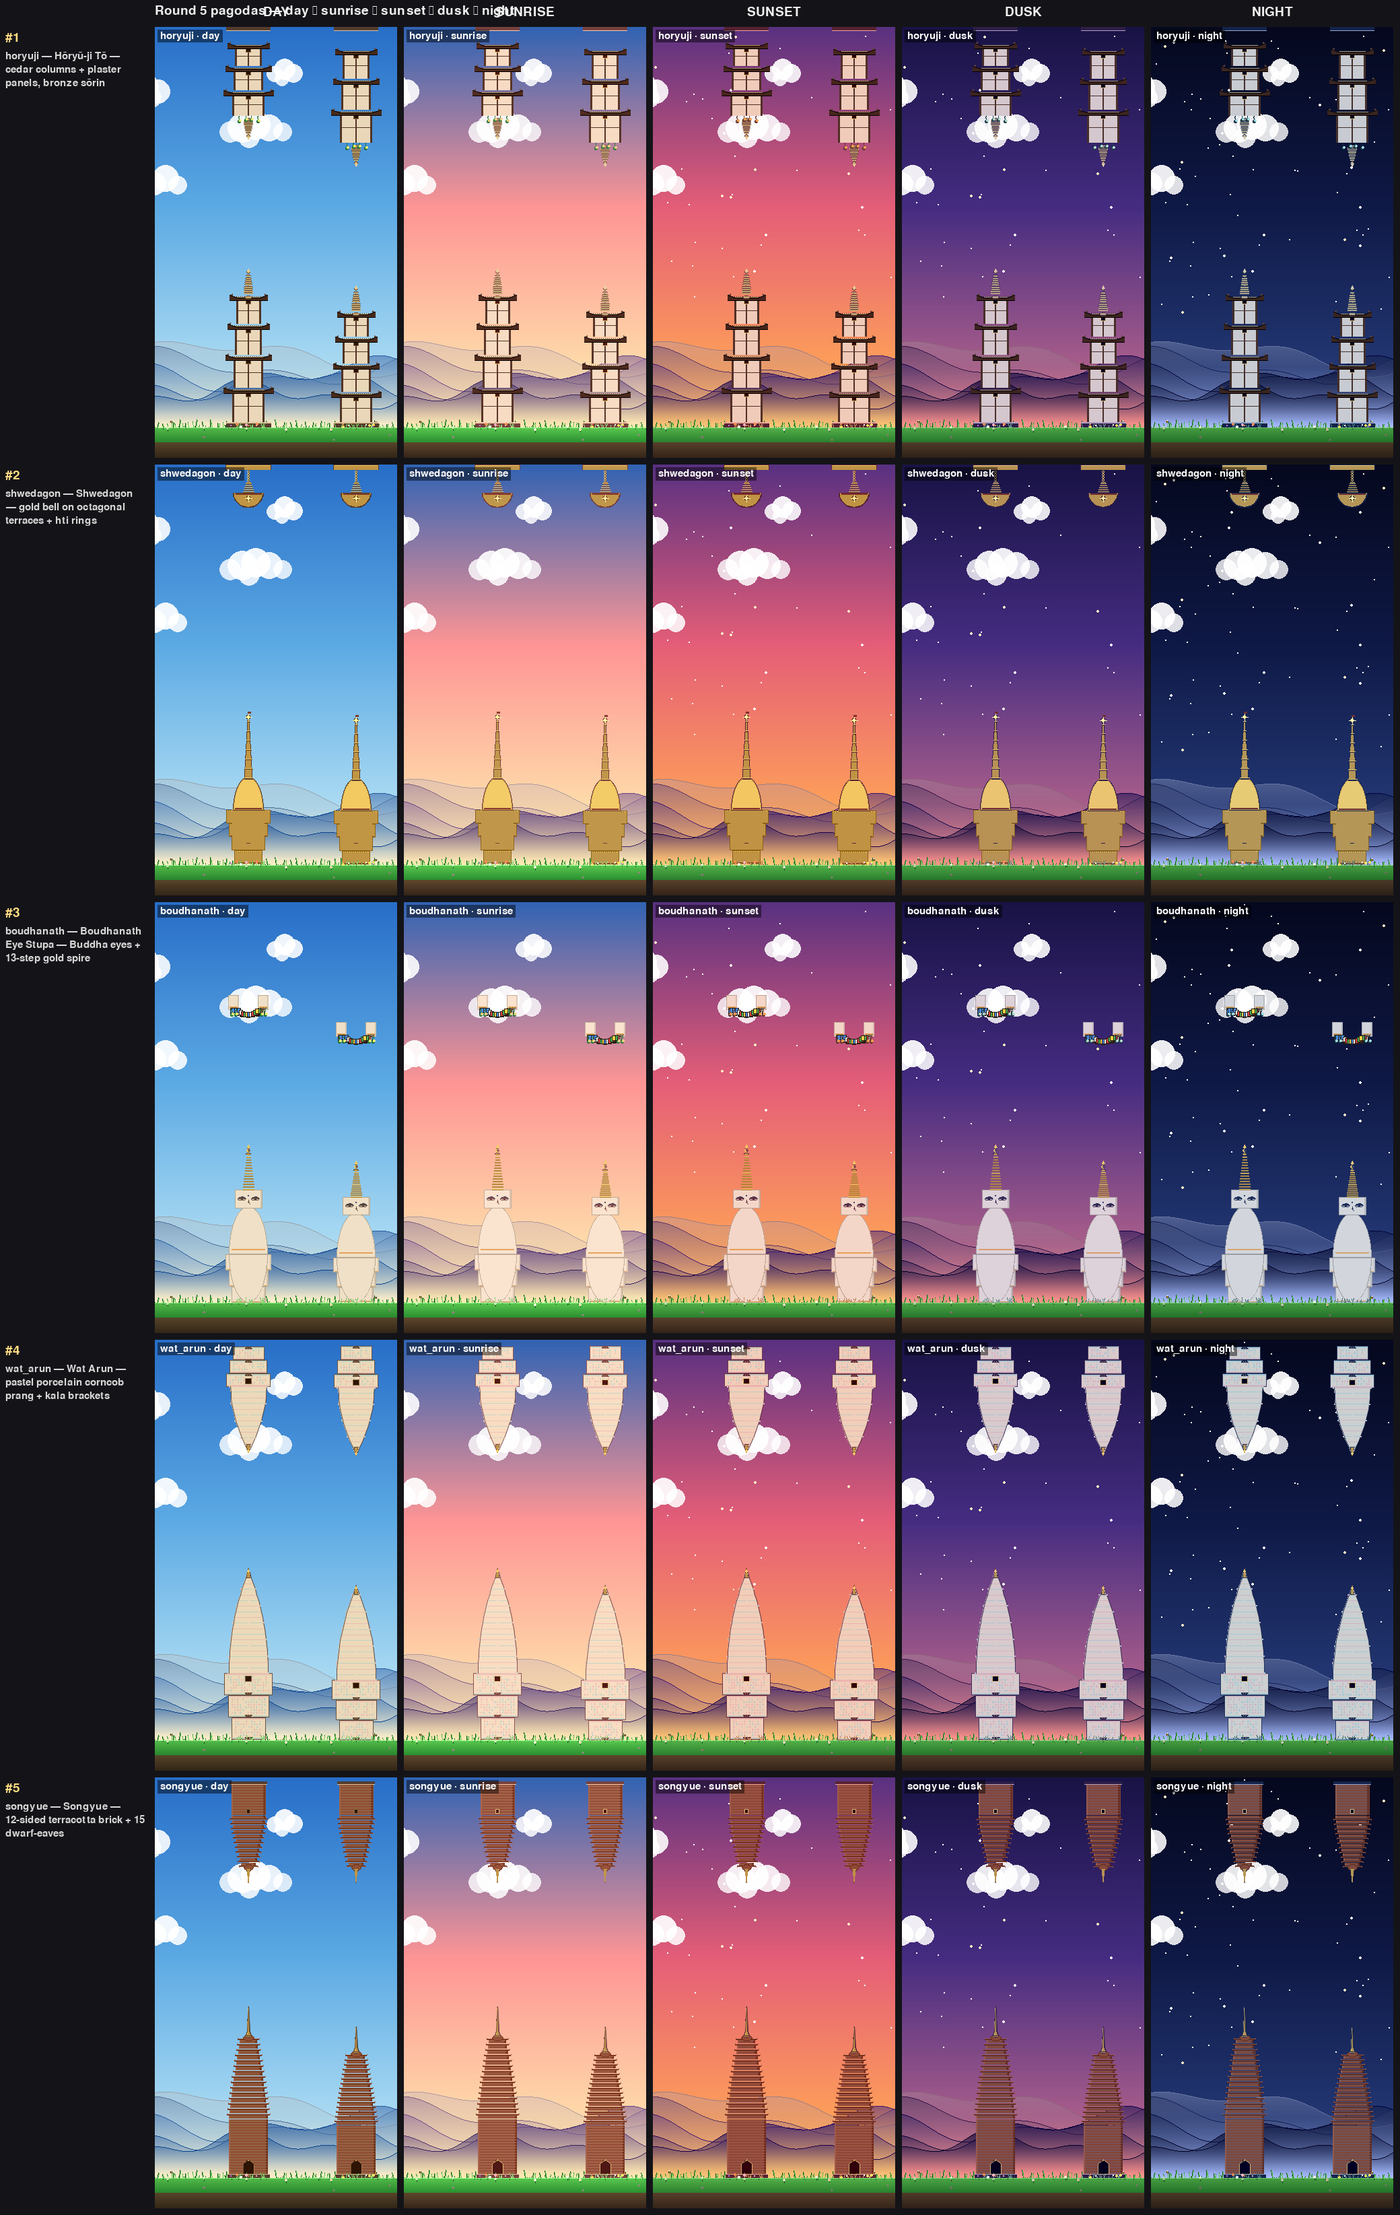
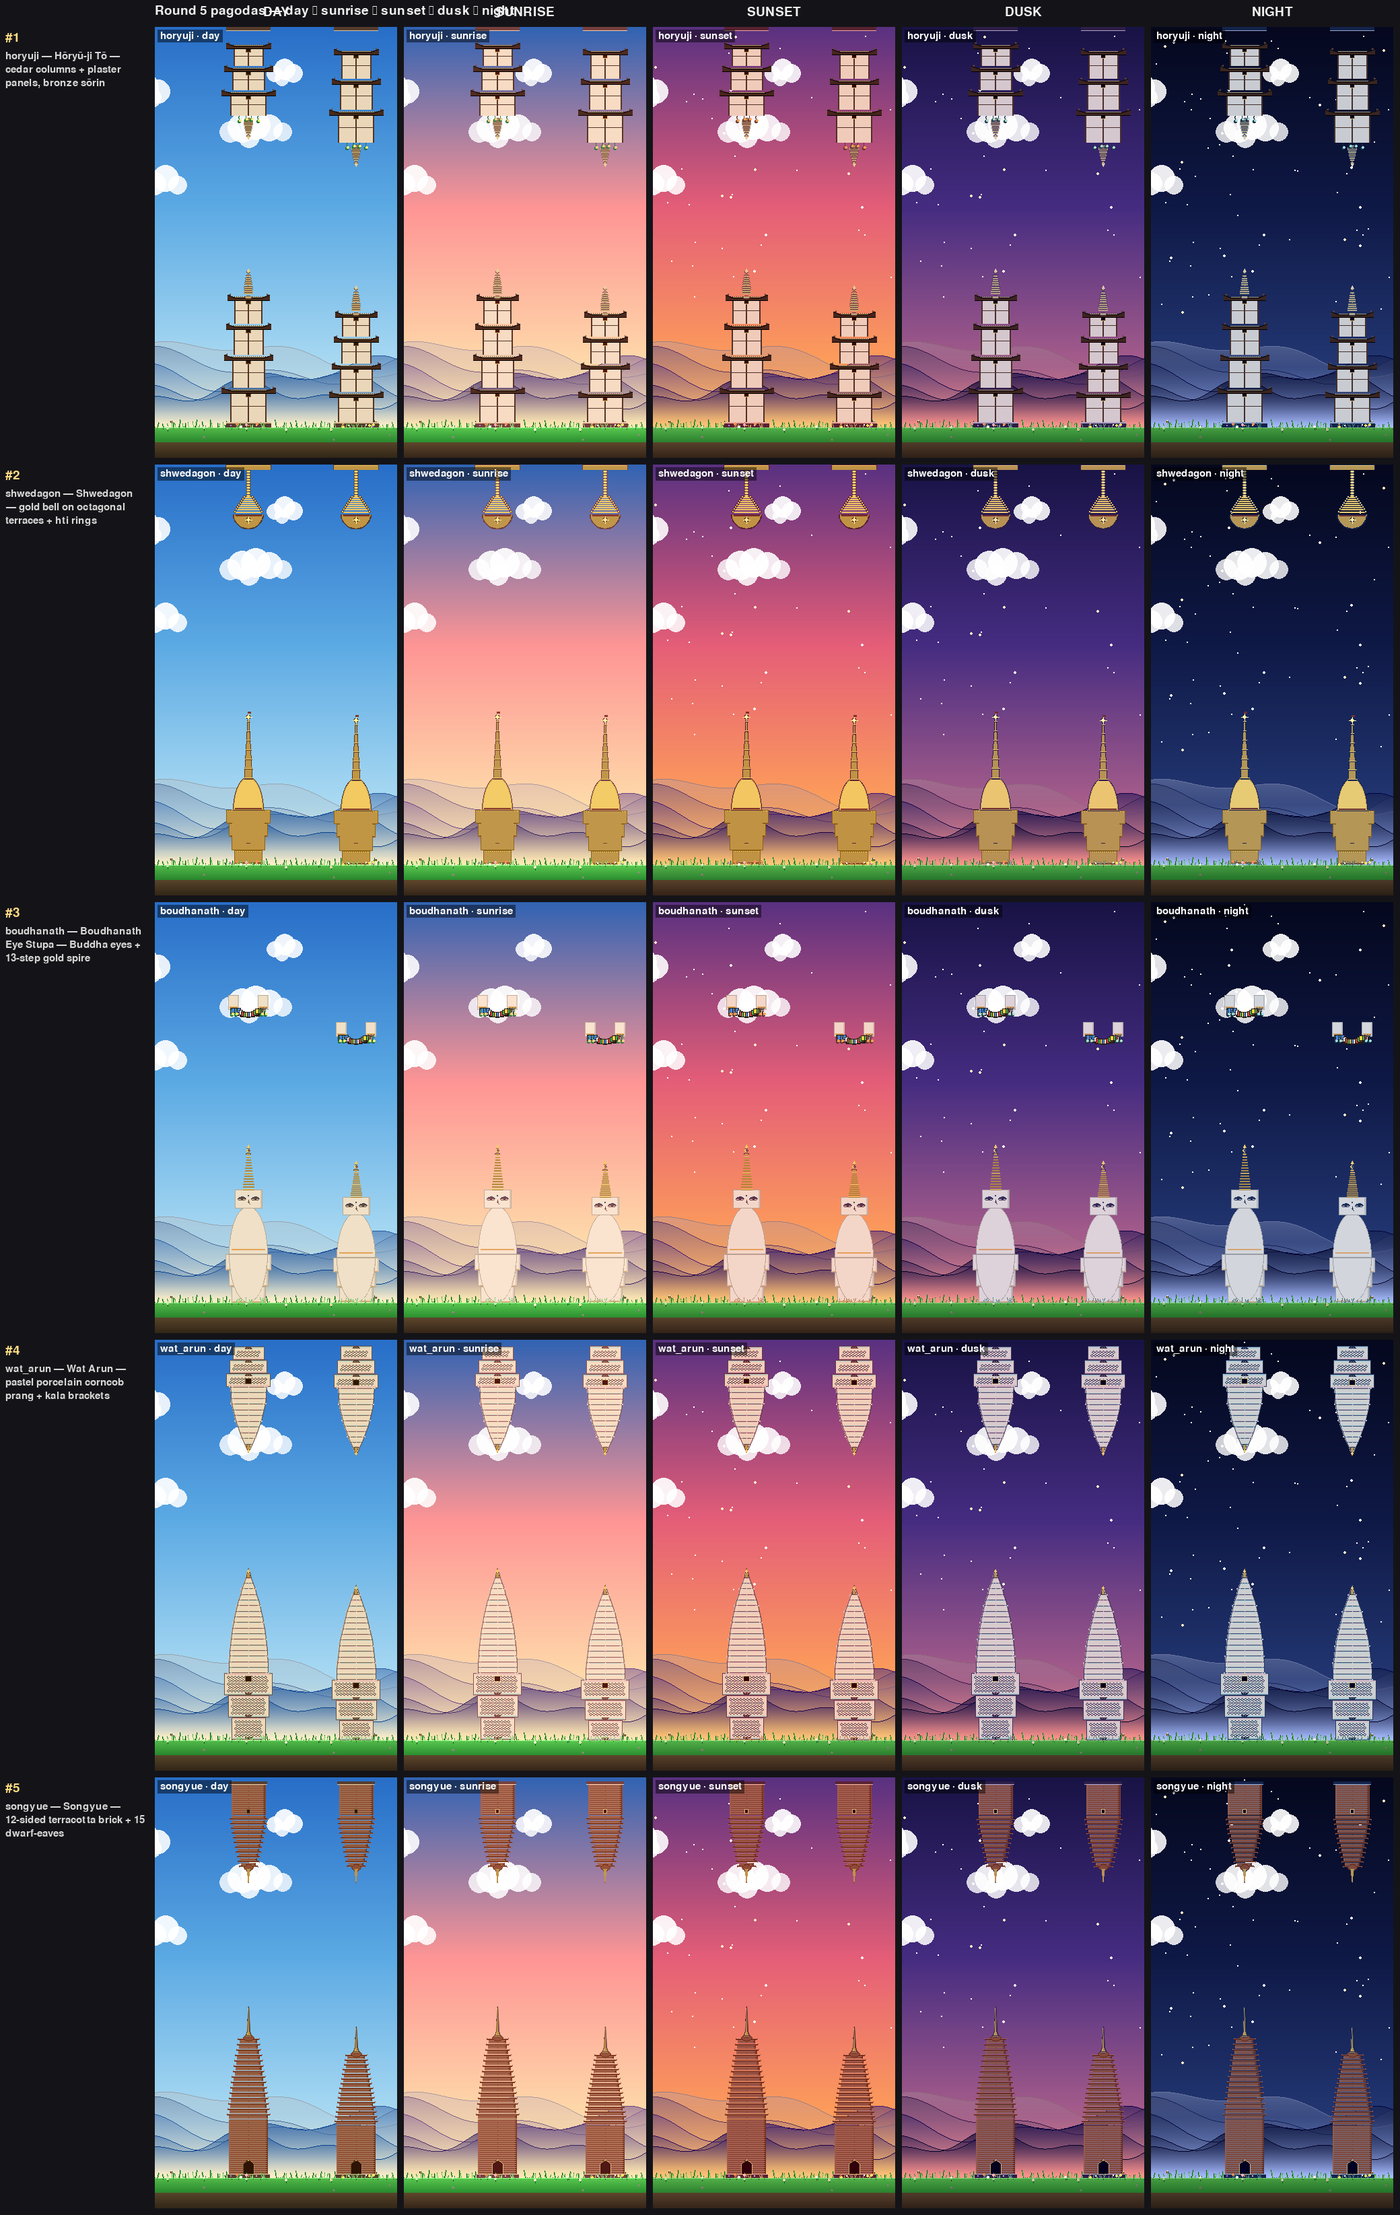
Pagoda pillars round 5: polish — wider tō, mosaic lattice, longer chain
Wat Arun porcelain switched to a 5-px interlocking diamond lattice +
brick-bond rows + gloss highlights so the mosaic reads at PIPE_W = 58;
prang body bands replaced 1-px stripes with 2-px mortar shadows + 3
staggered lozenge dots per band. Shwedagon chain extended with twin
gold strands + chain links + 7–9 hti rings under a beaded chandelier.
Hōryū-ji body widened to 0.94 × pipe so white plaster panels dominate.
Songyue mortar rows tightened to 3 px with alternating row breaks.

diff --git a/archive/pillar_redesign/pillar_pagoda_variants.py b/archive/pillar_redesign/pillar_pagoda_variants.py
@@ -374,14 +374,16 @@ def _draw_horyuji_to(surf, cx, top_y, bot_y, base_w, palette, *,
         # Outer cedar shadow.
         pygame.draw.rect(surf, _shade(cedar, -25),
                          (x_l, wall_top, bw, th))
-        # Plaster infill leaves the leftmost + rightmost 3 px as cedar columns.
-        if bw > 8 and th > 4:
+        # Plaster infill — slimmer 2 px corner columns (was 3) so the white
+        # panel reads as the dominant wall mass at game scale.
+        if bw > 6 and th > 4:
             pygame.draw.rect(surf, plaster,
-                             (x_l + 3, wall_top + 1, bw - 6, th - 1))
-        # Vertical cedar columns at corners (already covered) + one mid post.
-        pygame.draw.rect(surf, cedar, (x_l, wall_top, 3, th))
-        pygame.draw.rect(surf, cedar, (x_l + bw - 3, wall_top, 3, th))
-        if bw > 18:
+                             (x_l + 2, wall_top + 1, bw - 4, th - 1))
+        pygame.draw.rect(surf, cedar, (x_l, wall_top, 2, th))
+        pygame.draw.rect(surf, cedar, (x_l + bw - 2, wall_top, 2, th))
+        # Optional mid post only on the widest base tiers so upper tiers
+        # stay readable as single panels instead of a forest of posts.
+        if bw > 26:
             mid_x = cx - 1
             pygame.draw.rect(surf, cedar, (mid_x, wall_top, 2, th))
         # Horizontal cedar beam mid-tier — adds the Hōryū-ji wood-grid cue.
@@ -462,9 +464,11 @@ def _draw_horyuji(surf, top_rect, bot_rect, palette, seed):
         finial_h = 36
         envelope_top = bot_rect.y
         envelope_bot = bot_rect.bottom - plinth_h
+        # Body widens (0.84 → 0.94 of pipe width) so the white plaster panels
+        # have real weight against the dark cedar columns at PIPE_W = 58.
         _draw_horyuji_to(surf, bcx,
                          envelope_top + finial_h, envelope_bot,
-                         int(bot_rect.width * 0.84), palette,
+                         int(bot_rect.width * 0.94), palette,
                          tier_count=tier_count, finial_h=finial_h,
                          sorin_up=True)
         draw_grass_bed(surf, bcx, bot_rect.bottom - 1,
@@ -489,9 +493,11 @@ def _draw_horyuji(surf, top_rect, bot_rect, palette, seed):
         envelope_bot = top_rect.bottom - finial_h
         # Build the tō with smaller tier count for the hanging half so the
         # silhouette doesn't visually outweigh the ground tō.
+        # Hanging tō matches the widened ground body so the silhouette pair
+        # frames the gap with consistent wall-mass.
         _draw_horyuji_to(surf, tcx,
                          envelope_top, envelope_bot,
-                         int(top_rect.width * 0.84), palette,
+                         int(top_rect.width * 0.94), palette,
                          tier_count=max(3, tier_count - 1),
                          finial_h=finial_h, sorin_up=False)
         # Hanging moss off the lowest eave-tip area for warmth.
@@ -671,45 +677,54 @@ def _draw_shwedagon(surf, top_rect, bot_rect, palette, seed):
         pygame.draw.rect(surf, gold,
                          (tcx - anchor_w // 2 + 2, top_rect.y + 1,
                           anchor_w - 4, 1))
-        # Suspension chain — thicker rope + larger interlocking gold links so
-        # the pendant reads as hanging, not floating-bell-with-stick. Chain
-        # links alternate vertical/horizontal so the eye reads a real chain.
+        # Suspension chain — longer + thicker so the pendant clearly hangs
+        # off the ceiling anchor instead of floating beside it. Each link is
+        # a stretched gold oval with a dark outline, chained continuously
+        # down the rope so the eye traces the suspension at game scale.
         chain_top = top_rect.y + anchor_h
-        chain_bot = min(top_rect.bottom - 36, top_rect.y + anchor_h + 22)
-        pygame.draw.line(surf, dark, (tcx, chain_top), (tcx, chain_bot), 3)
-        pygame.draw.line(surf, _shade(gold, -25), (tcx - 1, chain_top),
-                         (tcx - 1, chain_bot), 1)
-        for i, cy in enumerate(range(chain_top + 2, chain_bot, 5)):
+        # Anchor a generous portion of the ceiling rect to the chain so the
+        # hti + bell don't collide with the gap — clamp to leave ~52 px
+        # below for the chandelier + bell + diamond bud.
+        chain_bot = max(chain_top + 14,
+                        min(top_rect.bottom - 52,
+                            top_rect.y + anchor_h + 38))
+        # Twin rope strands — a dark backbone with a gold inner highlight.
+        pygame.draw.line(surf, dark, (tcx, chain_top), (tcx, chain_bot), 4)
+        pygame.draw.line(surf, _shade(gold, -10),
+                         (tcx, chain_top), (tcx, chain_bot), 2)
+        # Larger, denser links so the chain reads at every biome phase.
+        for i, cy in enumerate(range(chain_top + 1, chain_bot, 4)):
+            pygame.draw.ellipse(surf, dark, (tcx - 4, cy - 1, 8, 5))
+            pygame.draw.ellipse(surf, gold, (tcx - 3, cy, 6, 3))
+            # Bright gloss pixel on every other link.
             if i % 2 == 0:
-                pygame.draw.ellipse(surf, dark, (tcx - 3, cy - 1, 6, 4))
-                pygame.draw.ellipse(surf, gold, (tcx - 2, cy, 4, 2))
-            else:
-                pygame.draw.ellipse(surf, dark, (tcx - 2, cy - 2, 4, 5))
-                pygame.draw.ellipse(surf, gold, (tcx - 1, cy - 1, 2, 3))
-        # Inverted hti rings — fan WIDER and ADD MORE rings so the chandelier
-        # reads as the umbrella-stack ornament instead of a single bar. Step
-        # widens faster than round 1 (rw = 4 + k * 2 vs 3 + k).
+                pygame.draw.line(surf, _shade(gold, 60),
+                                 (tcx - 1, cy + 1), (tcx + 1, cy + 1), 1)
+        # Inverted hti chandelier — fan wider and pack MORE rings so the
+        # umbrella-stack reads even when sky brightness varies. Each ring
+        # gets a tipped bead at both ends (the canonical hti-finial cue).
         ring_top_y = chain_bot + 2
-        rings = rng.choice([6, 7, 8])
+        rings = rng.choice([7, 8, 9])
         for k in range(rings):
             t = k / max(1, rings - 1)
-            ry = ring_top_y + int(t * 20)
-            rw = 4 + k * 2
-            # Dark shadow rim then gold lip — every other ring gets a small
-            # bead at each tip for the umbrella-spoke cue.
+            ry = ring_top_y + int(t * 22)
+            rw = 5 + k * 2
+            # 2-px gold lip with a dark shadow underneath — heavier than
+            # round 1 so the chandelier reads at small scale.
             pygame.draw.line(surf, dark,
                              (tcx - rw, ry + 1), (tcx + rw, ry + 1), 1)
             pygame.draw.line(surf, gold,
-                             (tcx - rw, ry), (tcx + rw, ry), 1)
-            if k % 2 == 1 and rw > 5:
-                pygame.draw.circle(surf, _shade(gold, 50), (tcx - rw, ry), 1)
-                pygame.draw.circle(surf, _shade(gold, 50), (tcx + rw, ry), 1)
+                             (tcx - rw, ry), (tcx + rw, ry), 2)
+            # Tipped bead at both ends of every ring — the hti spoke cue.
+            pygame.draw.circle(surf, dark, (tcx - rw - 1, ry), 2)
+            pygame.draw.circle(surf, gold, (tcx - rw - 1, ry), 1)
+            pygame.draw.circle(surf, dark, (tcx + rw + 1, ry), 2)
+            pygame.draw.circle(surf, gold, (tcx + rw + 1, ry), 1)
         # Inverted bell pendant — only the LOWER half of an ellipse is drawn
-        # so the bell reads as a hanging dome opening downward. Built as a
-        # closed fan polygon (arc + flat mouth) because pygame can't natively
-        # clip an ellipse mid-shape, and a full-ellipse + rect-mask approach
-        # would paint a flat band over the sky gradient behind the cache.
-        bell_top = ring_top_y + 16
+        # so the bell reads as a hanging dome opening downward. Anchor under
+        # the bottom of the chandelier (vs ring_top_y) so widening the chain
+        # doesn't push the bell off the pendant axis.
+        bell_top = ring_top_y + int(22) + 4
         bell_w = int(top_rect.width * 0.78)
         bell_h = 22
         steps = 17
@@ -992,29 +1007,41 @@ def candidate_boudhanath(surf, top_rect, bot_rect, palette, seed):
 # Reference: https://en.wikipedia.org/wiki/Wat_Arun
 
 def _mosaic_lozenges(surf, x, y, w, h, palette, *, rng):
-    """Scattered lozenge tiles in pastel-pink, aqua, cream — the porcelain
-    mosaic skin of Wat Arun's prang. Lozenges sit on a 4-px row grid so the
-    pattern reads as a hand-set mosaic at game scale, not coloured noise."""
+    """Pastel porcelain mosaic skin of Wat Arun's prang — high-contrast
+    diamond tiles on a 5-px lattice with dark mortar in between. The lattice
+    is hand-set so the pattern reads as porcelain inlay at PIPE_W = 58, not
+    as soft noise. Each diamond gets a brighter inner highlight + a dark
+    keyline so the mosaic survives day-bright and night-dark palettes."""
     if w < 6 or h < 6:
         return
-    cols = (_porcelain_pink(palette),
-            _porcelain_aqua(palette),
-            _porcelain_cream(palette))
-    rows = max(1, h // 4)
-    cells = max(1, w // 4)
+    pink = _porcelain_pink(palette)
+    aqua = _porcelain_aqua(palette)
+    cream = _porcelain_cream(palette)
+    dark = _shade(palette['stone_dark'], -10)
+    cols = (pink, aqua, cream)
+    step = 5
+    rows = max(1, h // step)
+    cells = max(1, w // step)
     for r in range(rows):
         for c in range(cells):
-            tx = x + c * 4
-            ty = y + r * 4
-            ci = rng.randrange(3)
+            tx = x + c * step
+            ty = y + r * step
+            # Stagger every other row by half a cell so the diamonds
+            # interlock the way a real porcelain mosaic on a prang does.
+            if r % 2 == 1:
+                tx += step // 2
+            ci = (r + c + rng.randrange(2)) % 3
             col = cols[ci]
-            # Lozenge: small diamond every other cell so the row stays open.
-            if (r + c) % 2 == 0:
-                pygame.draw.polygon(surf, col,
-                                    [(tx + 2, ty), (tx + 3, ty + 2),
-                                     (tx + 2, ty + 3), (tx + 1, ty + 2)])
-            else:
-                pygame.draw.rect(surf, col, (tx + 1, ty + 1, 2, 2))
+            # Dark mortar keyline around the diamond.
+            diamond = [(tx + 2, ty), (tx + 4, ty + 2),
+                       (tx + 2, ty + 4), (tx, ty + 2)]
+            pygame.draw.polygon(surf, dark, diamond)
+            inner = [(tx + 2, ty + 1), (tx + 3, ty + 2),
+                     (tx + 2, ty + 3), (tx + 1, ty + 2)]
+            pygame.draw.polygon(surf, col, inner)
+            # Centre highlight pixel — porcelain catches a tiny gloss spot.
+            pygame.draw.line(surf, _shade(col, 35),
+                             (tx + 2, ty + 2), (tx + 2, ty + 2), 1)
 
 
 def _prang_corncob(surf, cx, base_y, tip_y, palette, *, w=46, rng):
@@ -1050,21 +1077,33 @@ def _prang_corncob(surf, cx, base_y, tip_y, palette, *, w=46, rng):
     # Dark edge silhouette.
     _aa_polyline(surf, _shade(dark, 10), body, closed=True)
 
-    # Horizontal mosaic stripe rings — alternating pink/aqua.
+    # Porcelain mosaic skin across the spire: thicker stripe rings + a row
+    # of small staggered lozenge dots per band so the body matches the
+    # mosaic-clad reference, not a plain striped cone.
     for k in range(rings):
         t = k / rings
         local_w = int(w * (1 - t * t) * 0.5 + 2)
         ry = base_y - int(spire_h * t)
         stripe_col = pink if k % 2 == 0 else aqua
+        # 2-px stripe with a darker mortar line above so the band reads
+        # as a porcelain inlay row.
+        pygame.draw.line(surf, _shade(dark, 25),
+                         (cx - local_w + 1, ry - 1),
+                         (cx + local_w - 1, ry - 1), 1)
         pygame.draw.line(surf, stripe_col,
                          (cx - local_w + 1, ry),
                          (cx + local_w - 1, ry), 1)
-        # Tiny lozenge dot in cream at the centre of every 4th ring for tile
-        # detail.
-        if k % 4 == 1:
-            pygame.draw.polygon(surf, cream,
-                                [(cx, ry - 1), (cx + 1, ry),
-                                 (cx, ry + 1), (cx - 1, ry)])
+        # Staggered lozenge dots — pink/aqua/cream rotating so the column
+        # reads tiled rather than striped.
+        dot_col = cream if k % 3 == 0 else (aqua if k % 3 == 1 else pink)
+        for off in (-local_w + 3, 0, local_w - 3):
+            if off == 0 and local_w < 4:
+                continue
+            pygame.draw.polygon(surf, dot_col,
+                                [(cx + off, ry - 1),
+                                 (cx + off + 1, ry),
+                                 (cx + off, ry + 1),
+                                 (cx + off - 1, ry)])
 
     # Lobed paired bumps — small pink/aqua bulges on alternate sides every
     # 3 rings.
@@ -1197,12 +1236,13 @@ def candidate_wat_arun(surf, top_rect, bot_rect, palette, seed):
 # Reference: https://en.wikipedia.org/wiki/Songyue_Pagoda
 
 def _songyue_brick_band(surf, cx, y, w, h, palette):
-    """Brick-row striations on the body — horizontal hatch every 4 px in
-    alternating mortar/brick tones. What makes Songyue read as brick."""
+    """Brick-row striations on the body — tighter 3-px mortar rows with a
+    lighter, brighter mortar tone so the brick pattern reads at game
+    scale instead of dissolving into a flat terracotta column."""
     if w < 4 or h < 4:
         return
     brick = _terracotta(palette)
-    mortar = _brick_mortar(palette)
+    mortar = _shade(_brick_mortar(palette), 18)
     pygame.draw.rect(surf, brick, (cx - w // 2, y, w, h))
     # Right-edge cool shadow gives the cylinder its volume.
     pygame.draw.rect(surf, _shade(brick, -30),
@@ -1210,10 +1250,21 @@ def _songyue_brick_band(surf, cx, y, w, h, palette):
     # Left-edge highlight.
     pygame.draw.rect(surf, _shade(brick, 18),
                      (cx - w // 2, y, 2, h))
-    # Horizontal mortar rows every 4 px — the brick-row cue.
-    for k in range(y + 2, y + h, 4):
-        pygame.draw.line(surf, mortar,
-                         (cx - w // 2 + 2, k), (cx + w // 2 - 2, k), 1)
+    # Horizontal mortar rows every 3 px — the brick-row cue. Each row gets
+    # a half-cell offset on alternate lines so the eye reads brick-bond
+    # masonry, not just stripes.
+    for idx, k in enumerate(range(y + 2, y + h, 3)):
+        if idx % 2 == 0:
+            pygame.draw.line(surf, mortar,
+                             (cx - w // 2 + 2, k),
+                             (cx + w // 2 - 2, k), 1)
+        else:
+            # Broken row — leaves a brick-end gap mid-line.
+            mid = cx
+            pygame.draw.line(surf, mortar,
+                             (cx - w // 2 + 2, k), (mid - 1, k), 1)
+            pygame.draw.line(surf, mortar,
+                             (mid + 1, k), (cx + w // 2 - 2, k), 1)
 
 
 def _songyue_dwarf_eave(surf, cx, y, half_w, palette, depth=2):
